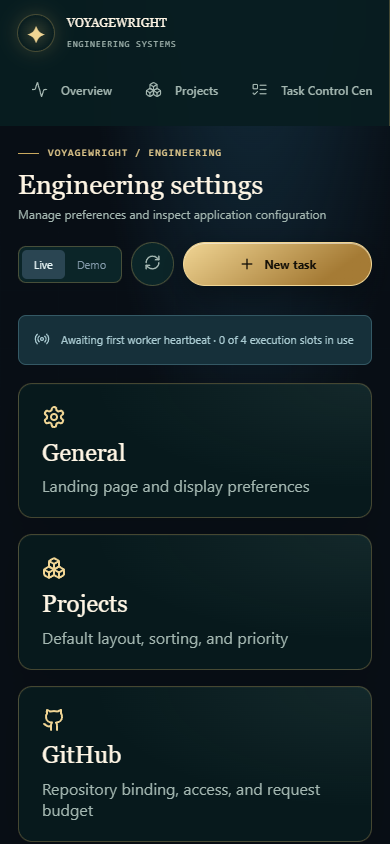
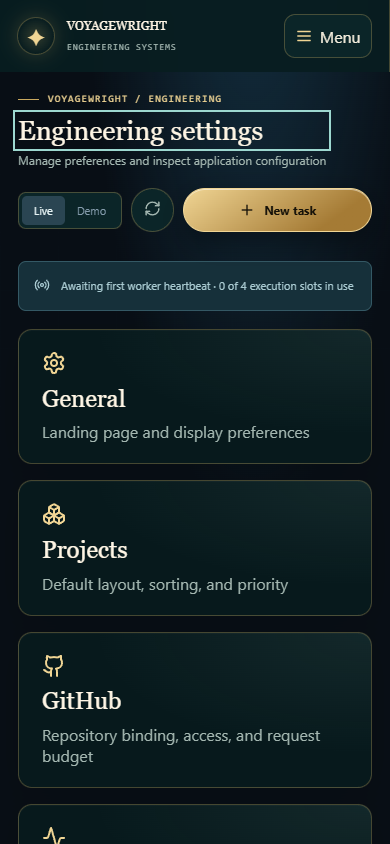
Make Voyagewright workspaces reachable from a phone menu

diff --git a/agent-system/observatory/src/main.jsx b/agent-system/observatory/src/main.jsx
@@ -1,7 +1,7 @@
 import React,{lazy,Suspense,useCallback,useEffect,useMemo,useRef,useState} from 'react';
 import {createRoot} from 'react-dom/client';
 import {MotionConfig,motion,useReducedMotion} from 'motion/react';
-import {Activity,ArrowLeft,ArrowRight,BarChart3,Boxes,CheckCircle2,CircleX,CircleAlert,Clock3,GitPullRequest,Layers3,ListTodo,Plus,Radio,RefreshCw,Settings,ShieldCheck,Workflow} from 'lucide-react';
+import {Activity,ArrowLeft,ArrowRight,BarChart3,Boxes,CheckCircle2,CircleX,CircleAlert,Clock3,GitPullRequest,Layers3,ListTodo,Menu,Plus,Radio,RefreshCw,Settings,ShieldCheck,Workflow} from 'lucide-react';
 import {demoRecords} from './demo-data.js';
 import {observedTaskTraceCoverage} from './trace-timeline.mjs';
 import {ExecutionFeed,TraceWaterfall} from './execution-feed.jsx';
@@ -117,6 +117,48 @@ function TaskAdmission({checks,draft,tasks,summaries,publicIntake,publicationCon
       ? <>Proposal text is for the public <a href={githubProposalFolder}>Proposed Tasks</a> folder. Submit only information suitable for public GitHub.{!publicationConfigured && ' GitHub publishing is currently unconfigured. This proposal will be queued for an explicit retry after setup.'}</>
       : 'Private proposals stay in the current workspace.'} Human approval and execution are separate.</div></div>
   </Panel>;
+}
+
+function WorkspaceSidebar({ voyage, applicationName, active, navigate, reduce, hosted, revision }) {
+  const [open, setOpen] = useState(false);
+  const toggle = useRef(null);
+  function dismiss() {
+    setOpen(false);
+    toggle.current?.focus();
+  }
+  return <aside className="sidebar" data-navigation-open={open} onKeyDown={event => {
+    if (open && event.key === 'Escape') {
+      event.preventDefault();
+      dismiss();
+    }
+  }} onBlur={event => {
+    if (!event.currentTarget.contains(event.relatedTarget)) setOpen(false);
+  }}>
+    <div className="brand">
+      <span className="brand-logo">{voyage ? <span aria-hidden="true">✦</span> : <Layers3 size={21} strokeWidth={1.6}/>}</span>
+      <div><b>{applicationName.toUpperCase()}</b><small>ENGINEERING SYSTEMS</small></div>
+    </div>
+    {voyage && <button className="workspace-menu-toggle" type="button" ref={toggle} aria-label="Workspace navigation"
+      aria-controls="engineering-navigation" aria-expanded={open} onClick={() => setOpen(value => !value)}>
+      <Menu size={18} aria-hidden="true"/><span>Menu</span>
+    </button>}
+    <div className="rail-caption">OPERATIONS</div>
+    <nav id="engineering-navigation" aria-label="Engineering workspaces">
+      {nav.map(([id, label, Icon]) => <motion.button key={id} className={'nav-link ' + (active === id ? 'selected' : '')}
+        title={label} aria-current={active === id ? 'page' : undefined} onClick={() => {
+          if (open) dismiss();
+          navigate(id);
+        }} whileHover={reduce ? undefined : { x: 3 }} whileTap={reduce ? undefined : { scale: .98 }}>
+        <Icon size={17} strokeWidth={1.7} aria-hidden="true"/><span className="nav-link-label">{label}</span>
+        {active === id && <motion.span className="nav-indicator" layoutId={reduce ? undefined : 'nav-indicator'}
+          transition={{ type: 'spring', stiffness: 350, damping: 30 }}/>}
+      </motion.button>)}
+    </nav>
+    <div className="sidebar-bottom">
+      <div className="connect-label"><span className="live-dot"/> {hosted ? 'PRIVATE SITES HOST' : 'LOCAL CONTROL PLANE'}</div>
+      <div className="mono">{short(revision)}</div><div>CONTRACT v1.0 · PHASE E</div>
+    </div>
+  </aside>;
 }
 
 function App(){const reduce=useReducedMotion(),[records,setRecords]=useState([]),[demo,setDemo]=useState(false),[localPage,setPage]=useState('overview'),[revision,setRevision]=useState(null),[error,setError]=useState(''),[loading,setLoading]=useState(true),[formError,setFormError]=useState(''),[saving,setSaving]=useState(false);
@@ -453,7 +495,8 @@ const dispatchObservation=!demo&&watchingTasks&&engine.status==='available'&&
   <div className="notice"><Radio size={16}/><span>{dispatchStatus.label}{Number.isInteger(engine.workerDispatch?.total_slots)&&
     <> · {engine.workerDispatch.active_slots} of {engine.workerDispatch.total_slots} execution slots in use</>}{dispatchStatus.at&&
     <> · Last verified worker heartbeat <time dateTime={dispatchStatus.at}>{new Date(dispatchStatus.at).toLocaleString()}</time></>}</span></div>;
-return <div className="app-shell" data-application={voyage?'voyagewright':'aetherwake'} data-density={preference.density} data-sidebar={preference.sidebar}><Ambient voyage={voyage}/><aside className="sidebar"><div className="brand"><span className="brand-logo">{voyage?<span aria-hidden="true">✦</span>:<Layers3 size={21} strokeWidth={1.6}/>}</span><div><b>{applicationName.toUpperCase()}</b><small>ENGINEERING SYSTEMS</small></div></div><div className="rail-caption">OPERATIONS</div><nav>{nav.map(([id,label,Icon])=><motion.button key={id} className={'nav-link '+((activeNavigation===id)?'selected':'')} title={label} aria-current={activeNavigation===id?'page':undefined} onClick={()=>navigate(id)} whileHover={reduce?undefined:{x:3}} whileTap={reduce?undefined:{scale:.98}}><Icon size={17} strokeWidth={1.7}/><span className="nav-link-label">{label}</span>{(activeNavigation===id)&&<motion.span className="nav-indicator" layoutId={reduce?undefined:'nav-indicator'} transition={{type:'spring',stiffness:350,damping:30}}/>}</motion.button>)}</nav><div className="sidebar-bottom"><div className="connect-label"><span className="live-dot"/> {proposals?'PRIVATE SITES HOST':'LOCAL CONTROL PLANE'}</div><div className="mono">{short(revision)}</div><div>CONTRACT v1.0 · PHASE E</div></div></aside><main className={page==='projects'&&!projectRoute?.[1]?'main project-library-main':'main'}><header className="topbar"><div><div className="overline"><span className="overline-line"/>{voyage?'VOYAGEWRIGHT / ENGINEERING':'AETHERWAKE / ENGINEERING OBSERVATORY'}</div><h1 ref={heading} tabIndex={-1}>{title}</h1><p>{desc}</p></div><div className="header-actions">{demo&&<span className="demo-flag">SIMULATED DATA</span>}{page==='analytics'?<span className="connect-label"><span className="live-dot"/> Live sources</span>:<div className="mode-toggle">{['Live','Demo'].map(m=><button key={m} className={(demo===(m==='Demo'))?'on':''} onClick={()=>{const v=m==='Demo';setDemo(v);refresh(v)}}>{m}</button>)}</div>}<motion.button className="icon-button" aria-label="Refresh records" title="Refresh" whileTap={reduce?undefined:{rotate:160}} onClick={()=>{if(page==='projects')setProjectRefresh(version=>version+1);else refresh()}}><RefreshCw size={17}/></motion.button>{page==='overview'&&<button className="quiet-button" onClick={()=>navigate('tasks')}>Browse Tasks <ArrowRight size={13}/></button>}<motion.button className="primary-button" whileHover={{y:-2}} whileTap={{scale:.97}} onClick={()=>navigate('create')}><Plus size={16}/> New task</motion.button></div></header>{!demo&&proposals?.verification&&<div className="notice"><ShieldCheck size={16}/>Isolated verification proposals</div>}{error&&<div className="notice error" role="status"><CircleAlert size={17}/>{error}</div>}{loading&&<div className="notice"><Radio size={16}/>Synchronizing engineering record feed…</div>}{watchingTasks&&engine.status==='error'&&engine.tasks.length>0&&<div className="notice" role="status"><Radio size={16}/>Task registry refresh failed. Showing the last known execution state.</div>}<motion.div key={page+(taskRoute?.id?'-'+taskRoute.id:'')+(projectRoute?.[1]?'-'+projectRoute[1]:'')+(githubView?.id?'-'+githubView.kind+'-'+githubView.id:'')+(mergeRoute?.[1]?'-'+mergeRoute[1]:'')+(demo?'-demo':'-live')} initial={reduce?false:{opacity:0,y:14}} animate={{opacity:1,y:0}} transition={{duration:reduce?.01:.3,ease}} className="view">
+return <div className="app-shell" data-application={voyage?'voyagewright':'aetherwake'} data-density={preference.density} data-sidebar={preference.sidebar}><Ambient voyage={voyage}/><WorkspaceSidebar voyage={voyage} applicationName={applicationName} active={activeNavigation} navigate={navigate}
+  reduce={reduce} hosted={Boolean(proposals)} revision={revision}/><main className={page==='projects'&&!projectRoute?.[1]?'main project-library-main':'main'}><header className="topbar"><div><div className="overline"><span className="overline-line"/>{voyage?'VOYAGEWRIGHT / ENGINEERING':'AETHERWAKE / ENGINEERING OBSERVATORY'}</div><h1 ref={heading} tabIndex={-1}>{title}</h1><p>{desc}</p></div><div className="header-actions">{demo&&<span className="demo-flag">SIMULATED DATA</span>}{page==='analytics'?<span className="connect-label"><span className="live-dot"/> Live sources</span>:<div className="mode-toggle">{['Live','Demo'].map(m=><button key={m} className={(demo===(m==='Demo'))?'on':''} onClick={()=>{const v=m==='Demo';setDemo(v);refresh(v)}}>{m}</button>)}</div>}<motion.button className="icon-button" aria-label="Refresh records" title="Refresh" whileTap={reduce?undefined:{rotate:160}} onClick={()=>{if(page==='projects')setProjectRefresh(version=>version+1);else refresh()}}><RefreshCw size={17}/></motion.button>{page==='overview'&&<button className="quiet-button" onClick={()=>navigate('tasks')}>Browse Tasks <ArrowRight size={13}/></button>}<motion.button className="primary-button" whileHover={{y:-2}} whileTap={{scale:.97}} onClick={()=>navigate('create')}><Plus size={16}/> New task</motion.button></div></header>{!demo&&proposals?.verification&&<div className="notice"><ShieldCheck size={16}/>Isolated verification proposals</div>}{error&&<div className="notice error" role="status"><CircleAlert size={17}/>{error}</div>}{loading&&<div className="notice"><Radio size={16}/>Synchronizing engineering record feed…</div>}{watchingTasks&&engine.status==='error'&&engine.tasks.length>0&&<div className="notice" role="status"><Radio size={16}/>Task registry refresh failed. Showing the last known execution state.</div>}<motion.div key={page+(taskRoute?.id?'-'+taskRoute.id:'')+(projectRoute?.[1]?'-'+projectRoute[1]:'')+(githubView?.id?'-'+githubView.kind+'-'+githubView.id:'')+(mergeRoute?.[1]?'-'+mergeRoute[1]:'')+(demo?'-demo':'-live')} initial={reduce?false:{opacity:0,y:14}} animate={{opacity:1,y:0}} transition={{duration:reduce?.01:.3,ease}} className="view">
 {dispatchObservation}
 {page==='overview'&&<><div className="metrics"><Metric name="Registered tasks" value={tasks.length} meta={usingEngineRegistry?'Engine registry · partial view':'Canonical v1 records'} Icon={Boxes} index={0}/><Metric name="Accepted" href={taskHref(undefined,'accepted')} onClick={resetMetricFilters} value={work.accepted} meta="Explicit task outcomes" Icon={CheckCircle2} index={1}/><Metric name="Executing" href={taskHref(undefined,'active')} onClick={resetMetricFilters} value={engine.status==='available'?work.active:'Unavailable'} meta={work.reportedRunning?work.reportedRunning+' last reported running':workerAccess==='not_configured'&&!work.active?'Codex worker access unavailable':'Engine-confirmed activity'} Icon={Activity} index={2}/><Metric name="At risk" href={taskHref(undefined,'issues')} onClick={resetMetricFilters} value={work.issues} meta="Blocked + failed" Icon={CircleAlert} index={3}/><Metric name="Reported success" href={taskHref(undefined,'succeeded')} onClick={resetMetricFilters} value={work.succeeded} meta="Tasks with a reported successful attempt" Icon={Clock3} index={4}/></div><div className="wide-grid"><Rise delay={.12}><Panel title="Engineering throughput" kicker="01 / ACTIVITY SIGNAL" right={<span className="panel-meta">TASK ARRIVAL · 14D</span>}><Timeline values={chart}/><div className="chart-footer">TASKS CREATED <span>Only observed records shown</span></div></Panel></Rise><StickySectionAside><Rise delay={.19}><Panel title="Delivery integrity" kicker="02 / ACCEPTANCE" right={<ShieldCheck size={18} className="muted-icon"/>}><div className="accept-head"><strong>{tasks.length?Math.round(100*work.accepted/tasks.length)+'%':'—'}</strong><small>ACCEPTED TASKS</small></div><div className="track"><motion.span initial={{width:0}} animate={{width:(tasks.length?100*work.accepted/tasks.length:0)+'%'}} transition={{duration:.9,ease}}/></div><DetailLine name="Execution attempts" value={attempts.length}/><DetailLine name="Awaiting owner review" value={<a className="text-button" aria-label={work.review+' Tasks awaiting owner review'} href={taskHref(undefined,'review')} onClick={resetMetricFilters}>{work.review}</a>}/><DetailLine name="Queued, scheduled, or paused" value={<a className="text-button" aria-label={work.waiting+' queued, scheduled, or paused Tasks'} href={taskHref(undefined,'waiting')} onClick={resetMetricFilters}>{work.waiting}</a>}/><DetailLine name="Tasks with no linked execution" value={work.unlinked}/><DetailLine name="Observed trace time" value={observedTime}/>
 {traceCoverage?.spans>0&&<DetailLine name="Trace timing coverage"

diff --git a/agent-system/observatory/src/voyagewright-engineering.css b/agent-system/observatory/src/voyagewright-engineering.css
@@ -118,3 +118,46 @@
 [data-application="voyagewright"] .haze-a { background: radial-gradient(ellipse, rgb(57 122 121 / 20%), transparent 70%); }
 [data-application="voyagewright"] .haze-b { background: radial-gradient(ellipse, rgb(201 169 95 / 17%), transparent 70%); }
 [data-application="voyagewright"] .scan-grid { opacity: .15; }
+
+[data-application="voyagewright"] .workspace-menu-toggle { display: none; }
+@media (max-width: 800px) {
+  [data-application="voyagewright"] .sidebar {
+    z-index: 30;
+    display: flex;
+    flex-direction: row;
+    justify-content: space-between;
+    align-items: center;
+    gap: .75rem;
+  }
+  [data-application="voyagewright"] .sidebar .brand { margin: 0; }
+  [data-application="voyagewright"] .workspace-menu-toggle {
+    display: inline-flex;
+    min-height: 44px;
+    align-items: center;
+    gap: .4rem;
+    padding-inline: .65rem;
+    border: 1px solid var(--voyage-border);
+    border-radius: .7rem;
+    color: var(--voyage-ink);
+    background: var(--voyage-raised);
+    cursor: pointer;
+  }
+  [data-application="voyagewright"] .workspace-menu-toggle svg { color: var(--voyage-gold); }
+  [data-application="voyagewright"] .sidebar nav {
+    display: none;
+    position: absolute;
+    inset: calc(100% + .4rem) .75rem auto auto;
+    width: calc(100% - 1.5rem);
+    max-width: 25rem;
+    max-height: calc(100dvh - 6rem);
+    padding: .5rem;
+    overflow: auto;
+    overscroll-behavior: contain;
+    gap: .25rem;
+    border: 1px solid var(--voyage-border);
+    border-radius: 1rem;
+    background: linear-gradient(155deg, var(--voyage-raised), var(--voyage-overlay));
+    box-shadow: 0 1.5rem 4rem rgb(0 0 0 / 58%);
+  }
+  [data-application="voyagewright"] .sidebar[data-navigation-open="true"] nav { display: grid; }
+}

diff --git a/PHASE2-REVIEW.md b/PHASE2-REVIEW.md
@@ -37,7 +37,7 @@ CI for the deployed candidate passed 69 Observatory checks, 139 Sites checks, 12
 
 1. **Projects.** Open either Project Library and inspect the appearance editor and saved views. In an authorized test namespace, move a card by pointer or keyboard and reload. Open a Project with recorded work to inspect Overview, Tasks, Milestones, Dependencies, GitHub and verification, Telemetry, Acceptance, History, and Artifacts. Follow a linked PR and return to its Project.
 2. **Merge.** Find either walkthrough PR with its linked Project or Task name. Compare the observed source context, prerequisite summary, and integration history. After configuring the scoped GitHub credentials, preview the required checks for the displayed head and open the exact failed job where available.
-3. **Voyagewright.** Compare the Projects, Tasks, Merge, Activity, and Settings links with the canonical Voyagewright palette on desktop and mobile. Review keyboard interaction and the reduced-motion setting in the browser.
+3. **Voyagewright.** Compare the Projects, Tasks, Merge, Activity, and Settings links with the canonical Voyagewright palette on desktop and mobile. At phone width, open **Menu** to reach any engineering workspace. Tab to a destination or dismiss the menu with Escape. Review the same workspaces on desktop and repeat the navigation with reduced motion enabled.
 4. **Settings and diagnostics.** In an authorized test namespace, save and reload a preference, then use the category reset. Open Activity, Connections, and Data & Backup to review their actual observations and verification timestamps.
 
 ## Owner decision and external inputs
